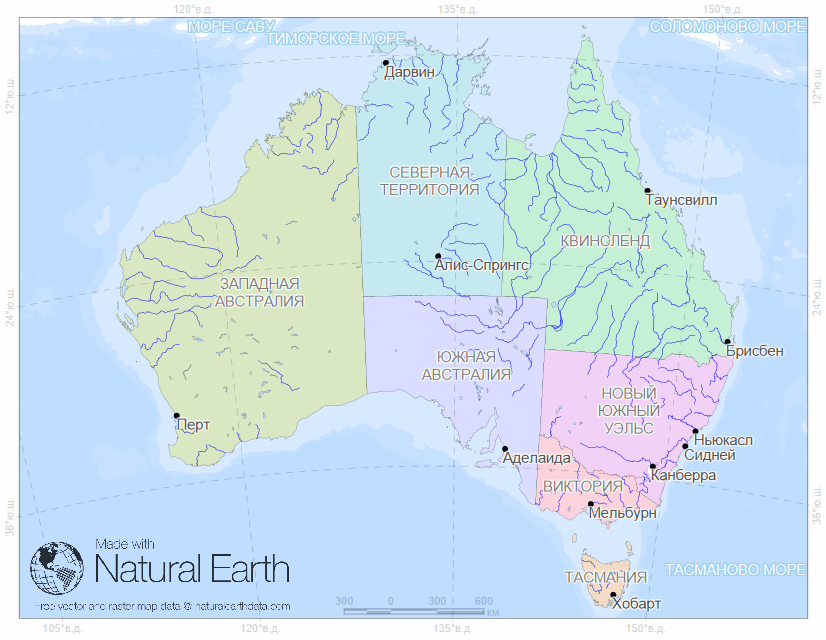
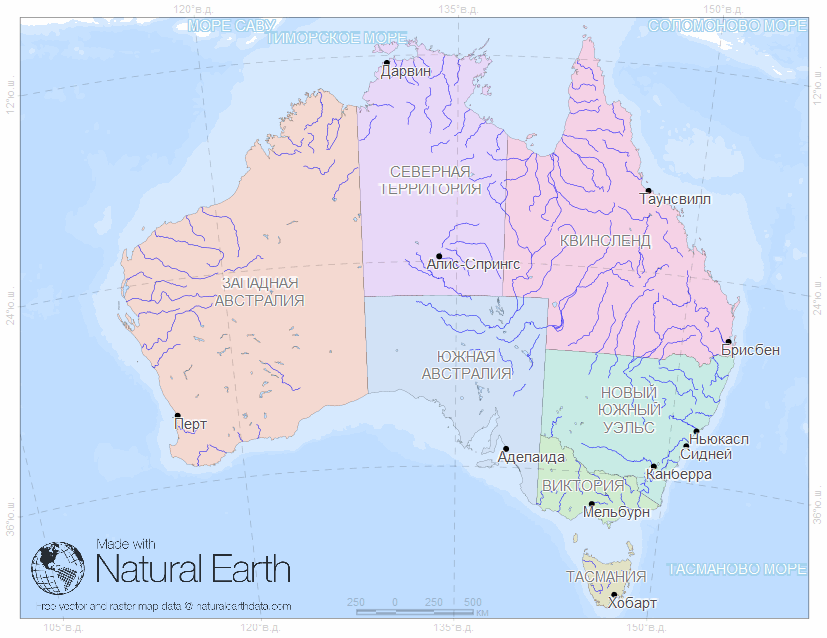
ongoing

diff --git a/sevinGIS/index.html b/sevinGIS/index.html
@@ -74,14 +74,13 @@ div.csl-indent {
 <h3 class="subtitle">Календарь занятий и тематический план курса</h3>
 <h4 class="author">Никита Платонов</h4>
 <address class="author_afil">
-с.н.с. ИПЭЭ РАН</address><br><h4 class="date"><span class="when">30 апреля 2026 г. <span class="updated">Обновлено: 12:05</span></span></h4>
+с.н.с. ИПЭЭ РАН</address><br><h4 class="date"><span class="when">06 мая 2026 г. <span class="updated">Обновлено: 18:33</span></span></h4>
 
 
 <div id="TOC">
 <ul>
 <li><a href="#%D0%B7%D0%B0%D0%BD%D1%8F%D1%82%D0%B8%D1%8F" id="toc-занятия"><svg aria-hidden="true" role="img" viewBox="0 0 576 512" style="height:1em;width:1.12em;vertical-align:-0.125em;margin-left:auto;margin-right:auto;font-size:inherit;fill:currentColor;overflow:visible;position:relative;"><path d="M96 32C60.7 32 32 60.7 32 96V384H96V96l384 0V384h64V96c0-35.3-28.7-64-64-64H96zM224 384v32H32c-17.7 0-32 14.3-32 32s14.3 32 32 32H544c17.7 0 32-14.3 32-32s-14.3-32-32-32H416V384c0-17.7-14.3-32-32-32H256c-17.7 0-32 14.3-32 32z"/></svg> Занятия</a>
 <ul>
-<li><a href="#notice" id="toc-notice"><svg aria-hidden="true" role="img" viewBox="0 0 512 512" style="height:1em;width:1em;vertical-align:-0.125em;margin-left:auto;margin-right:auto;font-size:inherit;fill:currentColor;overflow:visible;position:relative;"><path d="M480 32c0-12.9-7.8-24.6-19.8-29.6s-25.7-2.2-34.9 6.9L381.7 53c-48 48-113.1 75-181 75H192 160 64c-35.3 0-64 28.7-64 64v96c0 35.3 28.7 64 64 64l0 128c0 17.7 14.3 32 32 32h64c17.7 0 32-14.3 32-32V352l8.7 0c67.9 0 133 27 181 75l43.6 43.6c9.2 9.2 22.9 11.9 34.9 6.9s19.8-16.6 19.8-29.6V300.4c18.6-8.8 32-32.5 32-60.4s-13.4-51.6-32-60.4V32zm-64 76.7V240 371.3C357.2 317.8 280.5 288 200.7 288H192V192h8.7c79.8 0 156.5-29.8 215.3-83.3z"/></svg> Объявления</a></li>
 <li><a href="#dates" id="toc-dates"><svg aria-hidden="true" role="img" viewBox="0 0 448 512" style="height:1em;width:0.88em;vertical-align:-0.125em;margin-left:auto;margin-right:auto;font-size:inherit;fill:currentColor;overflow:visible;position:relative;"><path d="M152 24c0-13.3-10.7-24-24-24s-24 10.7-24 24V64H64C28.7 64 0 92.7 0 128v16 48V448c0 35.3 28.7 64 64 64H384c35.3 0 64-28.7 64-64V192 144 128c0-35.3-28.7-64-64-64H344V24c0-13.3-10.7-24-24-24s-24 10.7-24 24V64H152V24zM48 192H400V448c0 8.8-7.2 16-16 16H64c-8.8 0-16-7.2-16-16V192z"/></svg> По датам</a></li>
 <li><a href="#theme" id="toc-theme"><svg aria-hidden="true" role="img" viewBox="0 0 448 512" style="height:1em;width:0.88em;vertical-align:-0.125em;margin-left:auto;margin-right:auto;font-size:inherit;fill:currentColor;overflow:visible;position:relative;"><path d="M96 151.4V360.6c9.7 5.6 17.8 13.7 23.4 23.4H328.6c0-.1 .1-.2 .1-.3l-4.5-7.9-32-56 0 0c-1.4 .1-2.8 .1-4.2 .1c-35.3 0-64-28.7-64-64s28.7-64 64-64c1.4 0 2.8 0 4.2 .1l0 0 32-56 4.5-7.9-.1-.3H119.4c-5.6 9.7-13.7 17.8-23.4 23.4zM384.3 352c35.2 .2 63.7 28.7 63.7 64c0 35.3-28.7 64-64 64c-23.7 0-44.4-12.9-55.4-32H119.4c-11.1 19.1-31.7 32-55.4 32c-35.3 0-64-28.7-64-64c0-23.7 12.9-44.4 32-55.4V151.4C12.9 140.4 0 119.7 0 96C0 60.7 28.7 32 64 32c23.7 0 44.4 12.9 55.4 32H328.6c11.1-19.1 31.7-32 55.4-32c35.3 0 64 28.7 64 64c0 35.3-28.5 63.8-63.7 64l-4.5 7.9-32 56-2.3 4c4.2 8.5 6.5 18 6.5 28.1s-2.3 19.6-6.5 28.1l2.3 4 32 56 4.5 7.9z"/></svg> По темам</a></li>
 </ul></li>
@@ -111,9 +110,9 @@ div.csl-indent {
 
 <div id="занятия" class="section level2">
 <h2><svg aria-hidden="true" role="img" viewBox="0 0 576 512" style="height:1em;width:1.12em;vertical-align:-0.125em;margin-left:auto;margin-right:auto;font-size:inherit;fill:currentColor;overflow:visible;position:relative;"><path d="M96 32C60.7 32 32 60.7 32 96V384H96V96l384 0V384h64V96c0-35.3-28.7-64-64-64H96zM224 384v32H32c-17.7 0-32 14.3-32 32s14.3 32 32 32H544c17.7 0 32-14.3 32-32s-14.3-32-32-32H416V384c0-17.7-14.3-32-32-32H256c-17.7 0-32 14.3-32 32z"/></svg> Занятия</h2>
-<div id="notice" class="section level3">
-<h3><svg aria-hidden="true" role="img" viewBox="0 0 512 512" style="height:1em;width:1em;vertical-align:-0.125em;margin-left:auto;margin-right:auto;font-size:inherit;fill:currentColor;overflow:visible;position:relative;"><path d="M480 32c0-12.9-7.8-24.6-19.8-29.6s-25.7-2.2-34.9 6.9L381.7 53c-48 48-113.1 75-181 75H192 160 64c-35.3 0-64 28.7-64 64v96c0 35.3 28.7 64 64 64l0 128c0 17.7 14.3 32 32 32h64c17.7 0 32-14.3 32-32V352l8.7 0c67.9 0 133 27 181 75l43.6 43.6c9.2 9.2 22.9 11.9 34.9 6.9s19.8-16.6 19.8-29.6V300.4c18.6-8.8 32-32.5 32-60.4s-13.4-51.6-32-60.4V32zm-64 76.7V240 371.3C357.2 317.8 280.5 288 200.7 288H192V192h8.7c79.8 0 156.5-29.8 215.3-83.3z"/></svg> Объявления</h3>
 <!--
+### `<svg aria-hidden="true" role="img" viewBox="0 0 512 512" style="height:1em;width:1em;vertical-align:-0.125em;margin-left:auto;margin-right:auto;font-size:inherit;fill:currentColor;overflow:visible;position:relative;"><path d="M480 32c0-12.9-7.8-24.6-19.8-29.6s-25.7-2.2-34.9 6.9L381.7 53c-48 48-113.1 75-181 75H192 160 64c-35.3 0-64 28.7-64 64v96c0 35.3 28.7 64 64 64l0 128c0 17.7 14.3 32 32 32h64c17.7 0 32-14.3 32-32V352l8.7 0c67.9 0 133 27 181 75l43.6 43.6c9.2 9.2 22.9 11.9 34.9 6.9s19.8-16.6 19.8-29.6V300.4c18.6-8.8 32-32.5 32-60.4s-13.4-51.6-32-60.4V32zm-64 76.7V240 371.3C357.2 317.8 280.5 288 200.7 288H192V192h8.7c79.8 0 156.5-29.8 215.3-83.3z"/></svg>`{=html} Объявления {#notice}
+
 ---
 class: middle
 -->
@@ -273,7 +272,6 @@ Ifelse. Фильтр данных, исправление ошибок в стр
 [«Основы подготовки и визуализации данных в программе R»](https://anowcs.ru/osnovy-programmy-r-dlya-raboty-s-dannymi)
 с 26 марта по 03 мая 2024 г.
 -->
-</div>
 <div id="dates" class="section level3">
 <h3><svg aria-hidden="true" role="img" viewBox="0 0 448 512" style="height:1em;width:0.88em;vertical-align:-0.125em;margin-left:auto;margin-right:auto;font-size:inherit;fill:currentColor;overflow:visible;position:relative;"><path d="M152 24c0-13.3-10.7-24-24-24s-24 10.7-24 24V64H64C28.7 64 0 92.7 0 128v16 48V448c0 35.3 28.7 64 64 64H384c35.3 0 64-28.7 64-64V192 144 128c0-35.3-28.7-64-64-64H344V24c0-13.3-10.7-24-24-24s-24 10.7-24 24V64H152V24zM48 192H400V448c0 8.8-7.2 16-16 16H64c-8.8 0-16-7.2-16-16V192z"/></svg> По датам</h3>
 <div class="singlecolumn">
@@ -383,6 +381,10 @@ Ifelse. Фильтр данных, исправление ошибок в стр
 <table>
 <tbody>
 <tr class="odd">
+<td align="left">09</td>
+<td align="left"><a href="lesson09.html">Решение задач в QGIS</a></td>
+</tr>
+<tr class="even">
 <td align="left">12</td>
 <td align="left"><a href="lesson12.html">Обработка данных с геопозиционированием</a></td>
 </tr>
@@ -392,8 +394,12 @@ Ifelse. Фильтр данных, исправление ошибок в стр
 <table>
 <tbody>
 <tr class="odd">
+<td align="left">12</td>
+<td align="left"><a href="lesson12.html">Обработка данных с геопозиционированием</a></td>
+</tr>
+<tr class="even">
 <td align="left">10</td>
-<td align="left">Моделирование ареалов</td>
+<td align="left"><a href="lesson10.html">Моделирование ареалов</a></td>
 </tr>
 </tbody>
 </table>
@@ -401,10 +407,14 @@ Ifelse. Фильтр данных, исправление ошибок в стр
 <table>
 <tbody>
 <tr class="odd">
+<td align="left">10</td>
+<td align="left"><a href="lesson10.html">Моделирование ареалов</a></td>
+</tr>
+<tr class="even">
 <td align="left">13</td>
 <td align="left">«Подтягивание хвостов»</td>
 </tr>
-<tr class="even">
+<tr class="odd">
 <td align="left">07</td>
 <td align="left">Вопросы и ответы</td>
 </tr>
@@ -419,8 +429,8 @@ Ifelse. Фильтр данных, исправление ошибок в стр
 <table>
 <colgroup>
 <col width="5%" />
-<col width="61%" />
-<col width="32%" />
+<col width="55%" />
+<col width="39%" />
 </colgroup>
 <thead>
 <tr class="header">
@@ -473,12 +483,12 @@ Ifelse. Фильтр данных, исправление ошибок в стр
 <tr class="odd">
 <td align="left">09</td>
 <td align="left"><a href="lesson09.html">Решение задач в QGIS</a></td>
-<td align="left">26 марта, 30 апреля</td>
+<td align="left">26 марта, 30 апреля, 07 мая</td>
 </tr>
 <tr class="even">
 <td align="left">10</td>
-<td align="left">Моделирование ареалов</td>
-<td align="left">14 мая</td>
+<td align="left"><a href="lesson10.html">Моделирование ареалов</a></td>
+<td align="left">14 мая, 21 мая</td>
 </tr>
 <tr class="odd">
 <td align="left">11</td>
@@ -488,7 +498,7 @@ Ifelse. Фильтр данных, исправление ошибок в стр
 <tr class="even">
 <td align="left">12</td>
 <td align="left"><a href="lesson12.html">Обработка данных с геопозиционированием</a></td>
-<td align="left">07 мая</td>
+<td align="left">07 мая, 14 мая</td>
 </tr>
 <tr class="odd">
 <td align="left">13</td>
@@ -704,7 +714,7 @@ Ifelse. Фильтр данных, исправление ошибок в стр
 </table>
 </div>
 <div class="footer">
-<p><sup>*</sup> По состоянию на 30 апреля 2026 г. WWF России в реестре запрещённых в РФ организаций.</p>
+<p><sup>*</sup> По состоянию на 06 мая 2026 г. WWF России в реестре запрещённых в РФ организаций.</p>
 </div>
 <hr />
 <p class="centered-image"><img src="assets/lesson09/Kara.png" alt="" width="476" height="650" /></p>

diff --git a/sevinGIS/assets/general/general.css b/sevinGIS/assets/general/general.css
@@ -33,9 +33,12 @@ p img[width="1330"]::after {
    background-size: cover;
 }
 td .control {
-   visibility: hidden;
-   opacity: 0.3;
+   opacity: 0.5;
 }
 td:hover .control {
-   visibility: visible;
+   opacity: 1;
+}
+#slide-attendance__ td:empty,
+#slide-hw3stats td:empty {
+   background-color: lavender;
 }